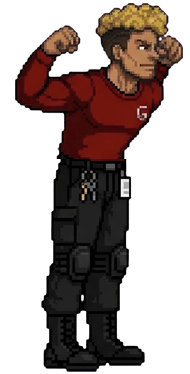
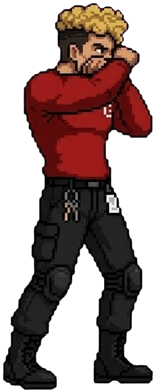
Parata e accovacciato di Vlad dalla nuova tavola, bancale volante di Beppe identico a quello in mano, v=23
- Vlad: parata dalla tavola IMG_5432 (si copre il viso con le braccia), accovacciato in parata dalla stessa tavola;
  la 2a e la 3a posa si toccano e si separano a x=634
- Beppe: il bancale lanciato ha lo stesso orientamento, la stessa misura e lo stesso centro del bancale
  che tiene in mano; nasce fermo in quel punto e si muove/ruota dal fotogramma successivo

Claude-Session: https://claude.ai/code/session_01P1JT64VZ5V9vmBLWg7Znu1

diff --git a/index.html b/index.html
@@ -156,8 +156,8 @@ function R(x,y,w,h,col){c.fillStyle='#07070c';c.fillRect(x-1,y-1,w+2,h+2);c.fill
 /* sprite dei personaggi: 1 riga per animazione in assets/characters/<nome>/, corpo in piedi normalizzato a 400px, piedi sul bordo inferiore, rivolti a destra.
    n = frame per animazione; pj = proiettile dello speciale (pjn frame); spT = soglie (tick) dei frame dello speciale se diverse dallo standard.
    hit/win sono opzionali: se mancano si usa la posa idle (inclinata quando colpito). */
-const SPRB=400,VER=22,SPRSET={
-BEPPE:{d:'beppe',n:{idle:4,walk:4,punch:5,kick:5,heavy:5,jump:3,block:1,crouch:1,special:3,fall:3,ko:1},pj:'pallet',pjn:1,pjh:36,pjo:[11.2,-25.2],spT:[6,11]},
+const SPRB=400,VER=23,SPRSET={
+BEPPE:{d:'beppe',n:{idle:4,walk:4,punch:5,kick:5,heavy:5,jump:3,block:1,crouch:1,special:3,fall:3,ko:1},pj:'pallet',pjn:1,pjw:46.9,pjh:44.3,pjo:[12.5,-23.8],spT:[6,11]},
 MATTEO:{d:'matteo',n:{idle:1,walk:2,punch:5,kick:5,heavy:5,jump:3,block:1,crouch:1,special:3,hit:1,fall:3,ko:1,win:3},pj:'matteo-cart',pjn:3,spT:[5,11]},
 VLAD:{d:'vlad',n:{idle:1,walk:2,punch:5,kick:5,heavy:5,jump:3,block:1,crouch:1,special:3,hit:1,fall:2,ko:1,win:2},pj:'vlad-spray',pjn:3,pjs:.6,pjo:[33.8,-83.5],pji:1,spT:[5,11]}};
 /* proiettile a più frame: pjh altezza e pjy bordo superiore (rispetto alla linea del proiettile), pji = il 1o frame è solo l'avvio;
@@ -245,7 +245,7 @@ if(f.st=='ko'){f.vx*=.92;f.x+=f.vx;f.vy+=.5;f.y=Math.min(0,f.y+f.vy);if(f.y>=0)f
 const gr=f.y>=0&&f.vy>=0;
 if(f.stun>0){f.stun--;f.vx*=.85;f.st=f.stun>0?'hit':'idle'}
 else if(f.st=='atk'){const m=MV[f.atk],t=f.t;f.ext=t<m.su?t/m.su:t<m.su+m.ac?1:Math.max(0,1-(t-m.su-m.ac)/m.re);f.vx*=.8;
-if(f.atk=='s'){if(t==m.su){const po=(SPRSET[f.L.n]||{}).pjo,bs=f.L.big?1.12:1;PJ.push({x:f.x+f.face*(po?po[0]*bs:22),y:po?po[1]*bs:-30,vx:f.face*3.6,o:f,a:f.atk,t:0});sfx('sp')}}
+if(f.atk=='s'){if(t==m.su){const po=(SPRSET[f.L.n]||{}).pjo,bs=f.L.big?1.12:1;PJ.push({x:f.x+f.face*(po?po[0]*bs:22)-f.face*3.6,y:po?po[1]*bs:-30,vx:f.face*3.6,o:f,a:f.atk,t:-1});/* nasce fermo sul punto di uscita: si muove e ruota dal fotogramma dopo */sfx('sp')}}
 else if(t>=m.su&&t<m.su+m.ac&&!f.did)hitchk(f,o,m);
 if(t>=m.su+m.ac+m.re){f.st='idle';f.atk=null;f.ext=0}}
 else{f.ext=0;f.blk=gr&&i.b;f.cr=gr&&i.d&&!i.b;if(gr)f.face=o.x>f.x?1:-1;
@@ -363,7 +363,7 @@ const order=a.y<b.y?[b,a]:[a,b];for(const f of order)draw(f,f.x,FY+f.y);
 for(const p of PJ){const x=p.x,y=FY+(p.y==null?-30:p.y),d=p.vx>0?1:-1;c.save();c.translate(x,y);c.scale(d,1);c.imageSmoothingEnabled=false;
 const ps=SPRSET[p.o.L.n]||SPRSET.BEPPE,PI=ps.pi;
 if(PI.complete&&PI.naturalWidth){if(ps.pjn>1){const n=ps.pjn,fw=PI.width/n,ph=ps.pjh||48,fi=ps.pji?(p.t<5?0:1+((p.t/8|0)%(n-1))):(p.t/6|0)%n,k2=ph/PI.height;if(ps.pjs){const k3=SPRK*ps.pjs;c.drawImage(PI,fi*fw,0,fw,PI.height,-2*k3,-PI.height*k3/2,fw*k3,PI.height*k3)}else c.drawImage(PI,fi*fw,0,fw,PI.height,-fw*k2/2,ps.pjy||-18,fw*k2,ph)}
-else{c.rotate(p.t*.2);const ph=ps.pjh||30,k2=ph/PI.height;c.drawImage(PI,-PI.width*k2/2,-ph/2,PI.width*k2,ph)}}
+else{c.rotate(Math.max(0,p.t)*.2);const ph=ps.pjh||30,pw=ps.pjw||PI.width*ph/PI.height;c.drawImage(PI,-pw/2,-ph/2,pw,ph)}}
 else{c.fillStyle='rgba(255,210,63,.4)';c.fillRect(-26,-6,24,12);R(-10,-8,20,12,'#9aa3ad');R(-10,-8,20,3,'#d42a2a');R(-8,4,4,4,'#222');R(4,4,4,4,'#222')}
 c.restore()}
 for(const p of PS){c.fillStyle=p.col;c.fillRect(p.x,FY+p.y,3,3)}

diff --git a/tools/build_vlad_sprites.py b/tools/build_vlad_sprites.py
@@ -2,8 +2,8 @@
 Uso: python3 tools/build_vlad_sprites.py
 
 Tavole: 5422 riferimento (non usata) · 5424 guardia/camminata · 5426 calcio · 5429 spruzzino (speciale)
-5430 nuvola dello spruzzino (proiettile) · 5433 colpito/caduta · 5434 KO · 5435 vittoria · 5437 accovacciato + pugno
-Mancano pose dedicate per salto e parata: si riusano pose simili (vedi sotto)."""
+5430 nuvola dello spruzzino (proiettile) · 5432 parata/accovacciato · 5433 colpito/caduta · 5434 KO · 5435 vittoria · 5437 accovacciato + pugno
+Manca una posa dedicata per il salto: si riusa il ginocchio alto del calcio."""
 import os, sys
 sys.path.insert(0, os.path.dirname(__file__))
 import numpy as np
@@ -34,37 +34,10 @@ aim = fig(5429, 1, keep=lambda yy, xx: xx < ((yy < 560) * 828 + ((yy >= 560) & (
 sheet('special', [fig(5429, 0), aim, aim])
 sheet('jump', [k[0], k[0], idle0])                         # nessuna tavola salto: ginocchio alto, poi guardia
 
-
-def waist(f):
-    """riga di vita (ultima riga con molta maglia rossa) e centro x della maglia su quella riga"""
-    p = f['px']
-    red = (p[..., 3] > 128) & (p[..., 0] > 90) & (p[..., 0] > p[..., 1] * 2.2) & (p[..., 0] > p[..., 2] * 2.2)
-    rows = np.where(red.sum(1) > 25)[0]
-    y = int(rows.max())
-    xs = np.where(red[y - 6:y + 1].any(0))[0]
-    return y, float(xs.mean())
-
-
-def splice(top, bottom):
-    """busto e braccia di 'top' sopra bacino e gambe di 'bottom', uniti alla vita"""
-    yt, xt = waist(top)
-    yb, xb = waist(bottom)
-    T, Bp = top['px'][:yt + 1], bottom['px'][yb + 1:]
-    L = int(max(xt, xb)) + 4
-    Rw = int(max(T.shape[1] - xt, Bp.shape[1] - xb)) + 4
-    out = np.zeros((T.shape[0] + Bp.shape[0], L + Rw, 4), np.float32)
-    xo = int(round(L - xb))
-    out[T.shape[0]:, xo:xo + Bp.shape[1]] = Bp
-    xo = int(round(L - xt))
-    region = out[:T.shape[0], xo:xo + T.shape[1]]
-    m = T[..., 3:4] > 0
-    region[:] = np.where(m, T, region)
-    return dict(px=out, ax=L + (bottom['ax'] - xb))
-
-
-# nessuna tavola parata: busto della posa accovacciata (braccio che copre il viso) sulle gambe in piedi
-sheet('block', [splice(crouch0, idle0)])
-sheet('crouch', [crouch0])
+# parata: tavola 5432 (in piedi a braccia incrociate, in piedi che si copre il viso, mezza guardia,
+# accovacciato in parata). La 2a e la 3a posa si toccano: si separano a x=634.
+sheet('block', [fig(5432, 1, keep=lambda yy, xx: xx < 634)])  # si copre il viso con le braccia
+sheet('crouch', [fig(5432, 2)])                            # accovacciato in parata
 # la 1a figura di 5433 ha tre gambe nel disegno originale: si usano solo la 2a (colpito) e la 3a (cade)
 f = [fig(5433, i) for i in (1, 2)]
 sheet('hit', [f[0]])
